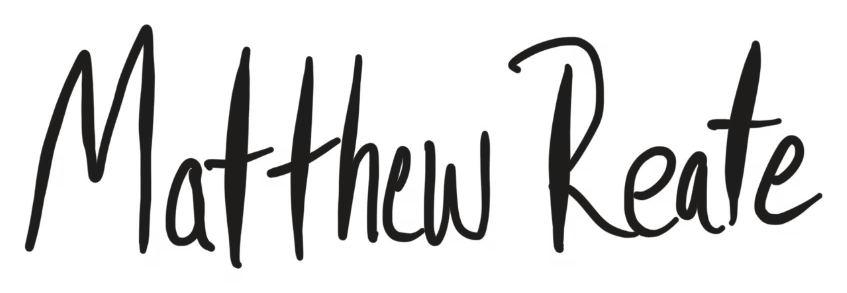
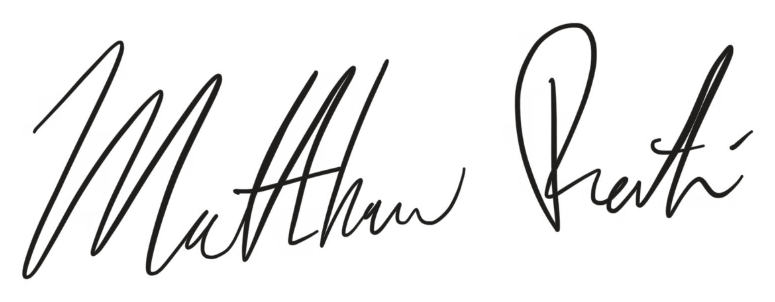
Deploy build from source bdb591b

Changed region(s): [[0.031, 0.0614, 0.991, 0.9215], [0.96, 0.43, 0.991, 0.4608]]

diff --git a/site.css b/site.css
@@ -58,8 +58,8 @@ td.n { width: 3.2em; padding-right: 0; text-align: right; white-space: nowrap; c
 /* Matthew's drawings. Crude on purpose. */
 img { max-width: 100%; height: auto; }
 .mark { display: block; width: 16em; margin: 0 0 1.4em -.3em; }
-h1 img.name { display: block; width: 12em; margin: 0 0 .1em -.15em; }
-header img.sig { display: block; width: 7.5em; margin-left: -.1em; }
+h1 img.name { display: block; width: 16em; margin: .2em 0 .3em -.4em; }
+header img.sig { display: block; width: 9em; margin-left: -.25em; }
 /* Heading doodles hang up into the white space above, so they add texture
    without pushing the text around. */
 h2 img.h { width: auto; height: 3.3em; margin: -2em 0 -.35em .45em; vertical-align: baseline; }

diff --git a/index.html b/index.html
@@ -77,7 +77,7 @@
 <body>
 <main>
 <img class="mark" src="doodles/controller.png" width="1496" height="571" alt="A DJ controller, drawn by hand">
-<h1><img class="name" src="doodles/signature.png" width="847" height="293" alt="Matthew Reate"></h1>
+<h1><img class="name" src="doodles/signature.png" width="775" height="302" alt="Matthew Reate"></h1>
 <p>I’m a <a href="about.html">record collector</a> who DJs weddings in New York, New Jersey, and the Hudson Valley, about forty-five a year.</p>
 <h2 id="mixes">Mixes <img class="h" src="doodles/headphones.png" width="592" height="789" alt=""></h2>
 <table>

diff --git a/mixes/deep-cut-cocktail-hour.html b/mixes/deep-cut-cocktail-hour.html
@@ -17,7 +17,7 @@
 <link rel="stylesheet" href="../site.css">
 </head>
 <body>
-<header><a href="../"><img class="sig" src="../doodles/signature.png" width="847" height="293" alt="Matthew Reate"></a></header>
+<header><a href="../"><img class="sig" src="../doodles/signature.png" width="775" height="302" alt="Matthew Reate"></a></header>
 <main>
 <h1>Deep Cut Cocktail Hour</h1>
 <p>A cocktail-hour set of deep cuts, recorded live in one pass.</p>

diff --git a/playlists/record-collector-cocktail-hour.html b/playlists/record-collector-cocktail-hour.html
@@ -17,7 +17,7 @@
 <link rel="stylesheet" href="../site.css">
 </head>
 <body>
-<header><a href="../"><img class="sig" src="../doodles/signature.png" width="847" height="293" alt="Matthew Reate"></a></header>
+<header><a href="../"><img class="sig" src="../doodles/signature.png" width="775" height="302" alt="Matthew Reate"></a></header>
 <main>
 <h1>Record Collector Cocktail Hour</h1>
 <p>First pours, warm records, the room waking up.</p>

diff --git a/about.html b/about.html
@@ -35,7 +35,7 @@
 </script>
 </head>
 <body>
-<header><a href="./"><img class="sig" src="doodles/signature.png" width="847" height="293" alt="Matthew Reate"></a></header>
+<header><a href="./"><img class="sig" src="doodles/signature.png" width="775" height="302" alt="Matthew Reate"></a></header>
 <main>
 <h1>About</h1>
 <p>I’m a record collector who DJs weddings — about forty-five a year, mostly New York and the wider Northeast.</p>

diff --git a/venues.html b/venues.html
@@ -17,7 +17,7 @@
 <link rel="stylesheet" href="site.css">
 </head>
 <body>
-<header><a href="./"><img class="sig" src="doodles/signature.png" width="847" height="293" alt="Matthew Reate"></a></header>
+<header><a href="./"><img class="sig" src="doodles/signature.png" width="775" height="302" alt="Matthew Reate"></a></header>
 <main>
 <h1>DJ sets for restaurants and bars</h1>
 <p>Music that fits the room without taking it over.</p>

diff --git a/playlists/record-collector-dinner.html b/playlists/record-collector-dinner.html
@@ -17,7 +17,7 @@
 <link rel="stylesheet" href="../site.css">
 </head>
 <body>
-<header><a href="../"><img class="sig" src="../doodles/signature.png" width="847" height="293" alt="Matthew Reate"></a></header>
+<header><a href="../"><img class="sig" src="../doodles/signature.png" width="775" height="302" alt="Matthew Reate"></a></header>
 <main>
 <h1>Record Collector Dinner</h1>
 <p>Dinner music that keeps the room alive.</p>

diff --git a/playlists/record-collector-floor-openers.html b/playlists/record-collector-floor-openers.html
@@ -17,7 +17,7 @@
 <link rel="stylesheet" href="../site.css">
 </head>
 <body>
-<header><a href="../"><img class="sig" src="../doodles/signature.png" width="847" height="293" alt="Matthew Reate"></a></header>
+<header><a href="../"><img class="sig" src="../doodles/signature.png" width="775" height="302" alt="Matthew Reate"></a></header>
 <main>
 <h1>Record Collector Floor Openers</h1>
 <p>The first turn toward the floor.</p>

diff --git a/mixes/wine-bar-dinner.html b/mixes/wine-bar-dinner.html
@@ -17,7 +17,7 @@
 <link rel="stylesheet" href="../site.css">
 </head>
 <body>
-<header><a href="../"><img class="sig" src="../doodles/signature.png" width="847" height="293" alt="Matthew Reate"></a></header>
+<header><a href="../"><img class="sig" src="../doodles/signature.png" width="775" height="302" alt="Matthew Reate"></a></header>
 <main>
 <h1>Wine Bar Dinner</h1>
 <p>A wine bar dinner mix, recorded in one pass.</p>
